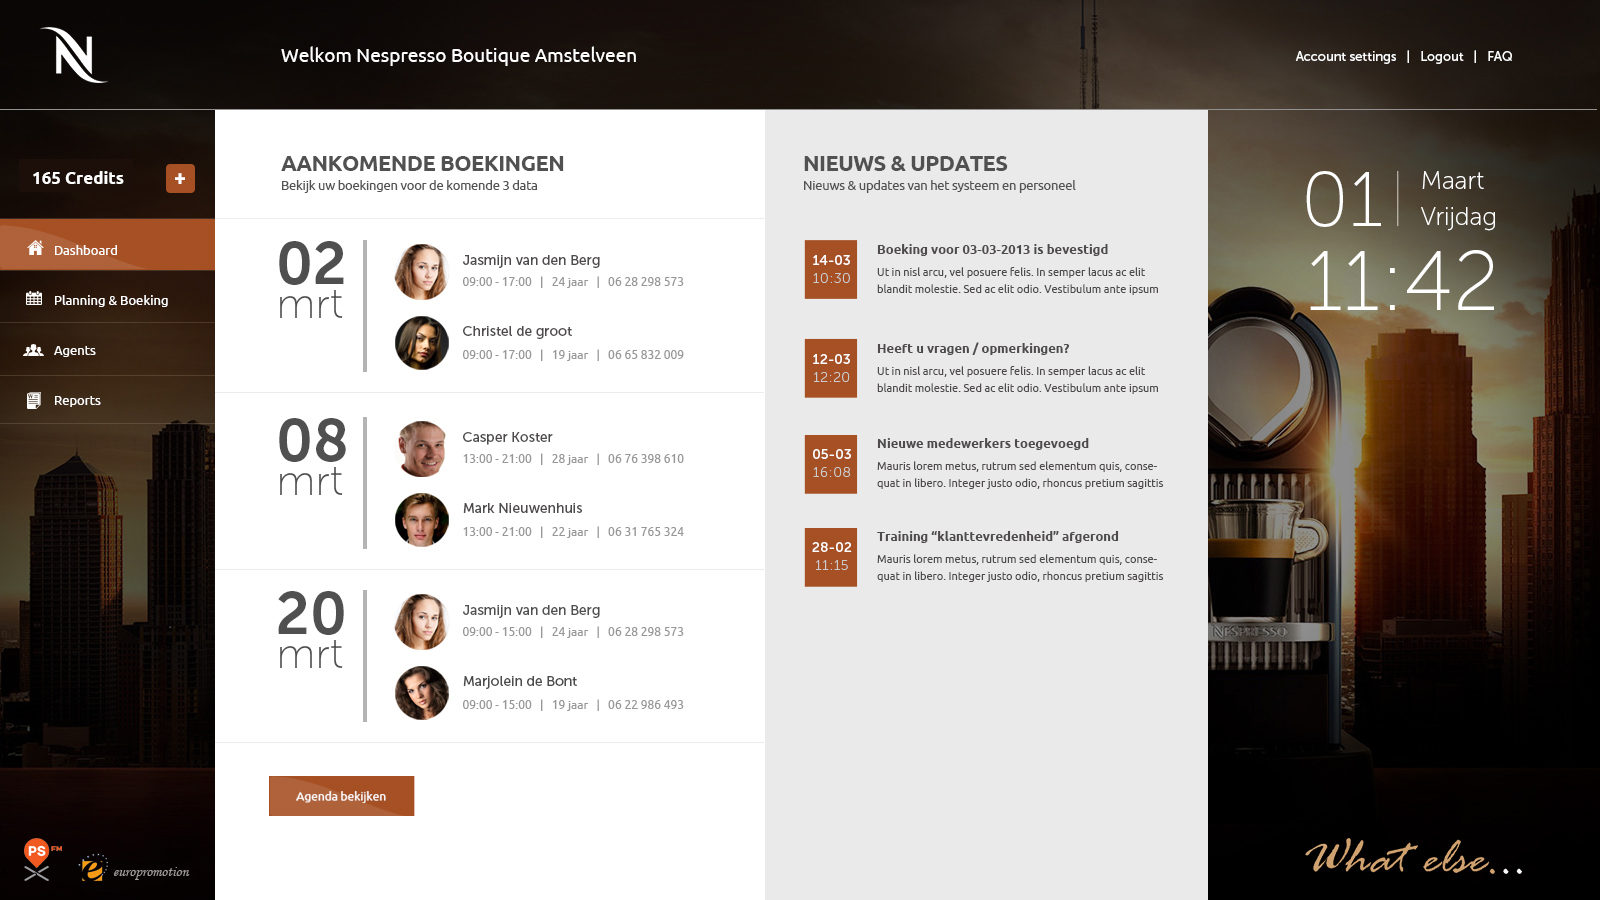
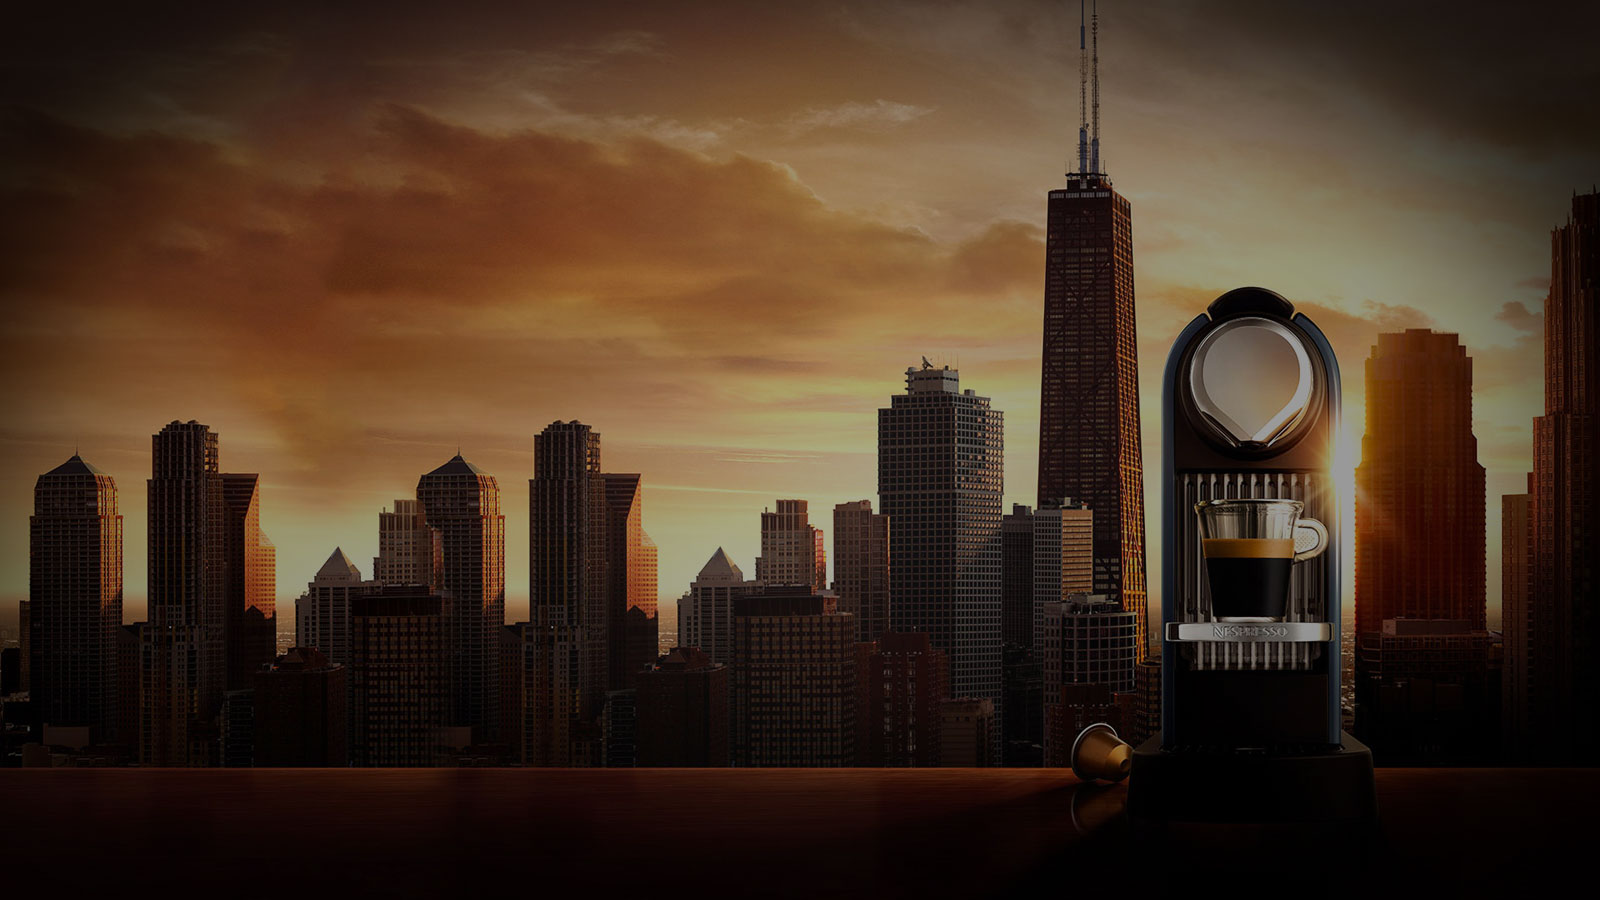
solved the layout

diff --git a/bookingtool/index.html b/bookingtool/index.html
@@ -38,8 +38,35 @@
 	  				<section class="content-item">
 	  					<h1>Nieuwe boeking</h1>
 	  		        	<p class="small">Vul onderstaand formulier in om nieuwe booking aan te maken</p>
+	  		    		<form action="#" method="POST">
+	  		    			<table style="width: 100%;">
+	  		    				<tr>
+	  		    					<td><label>Datum:</label></td><td class="align-right"><input type="date" class="normal" name="tb_date" id="tb_date" /></td>
+	  		    				<tr>
+	  		    					<tr>
+	  		    					<td><label>Werktijden:</label></td><td class="align-right">
+	  		    						<input type="text" class="small" name="tb_werktijd_from" id="tb_werktijd_from" /> - 
+	  		    						<input type="text" class="small" name="tb_werktijd_till" id="tb_werktijd_till" />
+	  		    					</td>
+	  		    				<tr>
+	  		    					<tr>
+	  		    					<td><label>Aantal medewerkers:</label></td><td class="align-right"><input type="text" class="normal" name="tb_agent_count" id="tb_agent_count" /></td>
+
+	  		    				<tr>
+	  		    				<tr>
+	  		    					<td><label>Voorkeur medewerkers:</label></td><td class="align-right">
+	  		    						<select class="normal" name="tb_agent_prefferences_01" id="tb_agent_prefferences_01">
+	  		    							<option>Selecteer medewerker</option>
+	  		    						</select><br/>
+	  		    						<select class="normal" name="tb_agent_prefferences_02" id="tb_agent_prefferences_02">
+	  		    							<option>Selecteer medewerker</option>
+	  		    						</select>
+	  		    					</td>
+	  		    				</tr>
+	  		    			</table>
+
 	  		    	</section>
-	  		    	<form action="#" method="POST">
+	  		    	
 	  		    	<section class="content-item">
 	  		    		<h2>Samenvatting</h2>
 	  		    		<p class="small">U hebt 2 medewerkers geboekt voor 14-04-2013. Deze booking vereist 2 credits van uw tegoed. Voor akkoord bevestigd u de booking. Indien u nog een wijziging wilt doorvoeren knt u dit nu  nog doen.<p>

diff --git a/bookingtool/css/typography.css b/bookingtool/css/typography.css
@@ -43,4 +43,29 @@ input[type=submit]{
 	height: 40px;
 	padding: 0 20px;
 	display: block;
+	cursor: pointer;
+}
+input[type=text], input[type=date]{
+	height: 40px;
+	padding: 0 10px;
+	width: 200px;
+	font-size: 16px;
+	border: 1px solid #ccc;
+	border-radius: 2;
+	-webkit-appearance: none;
+}
+select {
+	overflow: hidden;
+   	background: #fff;
+   	border: 1px solid #ccc;
+   	height: 40px;
+   	padding: 0 10px;
+   	font-size: 16px;
+   -webkit-appearance: none;
+}
+input[type=text].normal, input[type=date].normal, select.normal{
+	width: 250px;
+}
+input[type=text].small, input[type=date].small, select.small{
+	width: 80px;
 }

diff --git a/bookingtool/css/branding.css b/bookingtool/css/branding.css
@@ -1,6 +1,5 @@
 /* color */
 body {
-	background-color: #0a0605;
 	color: #515151;
 }
 header {
@@ -40,9 +39,6 @@ section#menu li a:hover{
 }
 section.content-item {
 	border-top: 1px solid #d1d1d1;
-}
-section#menu li:first-child{
-	border: none;
 }
 input[type=submit]{
 	background-color: #a65024;

diff --git a/bookingtool/css/main.css b/bookingtool/css/main.css
@@ -3,6 +3,7 @@
 @import url("typography.css");
 @import url("branding.css");
 
-body {
-	background: url('../images/background.jpg') no-repeat;
+html {
+	background: url('../images/background.jpg') no-repeat left top;
+	background-size: 100%;
 }

diff --git a/bookingtool/css/layout.css b/bookingtool/css/layout.css
@@ -96,3 +96,10 @@ section#menu li a {
 section.content-item {
 	padding: 30px;
 }
+td.align-right {
+	text-align: left;
+}
+form {
+	margin-top: 30px;
+}
+
